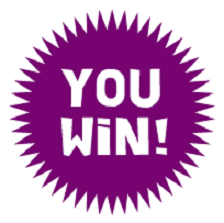
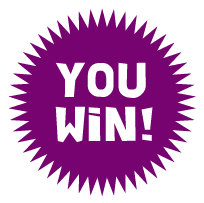
Change win image and fix win function

diff --git a/pygame_trial.py b/pygame_trial.py
@@ -198,8 +198,9 @@ def display_board():
            
     return
 
-def game_won():
-     window.blit(pygame.image.load('img_you_win.png'), (350,350))
+def game_won(): 
+    if all(card.active == False for card in cards):
+     window.blit(pygame.image.load('img_you_win.png'), (260,260))
 
 done = False
 
@@ -230,8 +231,9 @@ while not done:
 
         highlight_cards()
 
+        game_won()
+
         pygame.display.update()
         pygame.display.flip()
         clock.tick(10)
 
-game_won()
